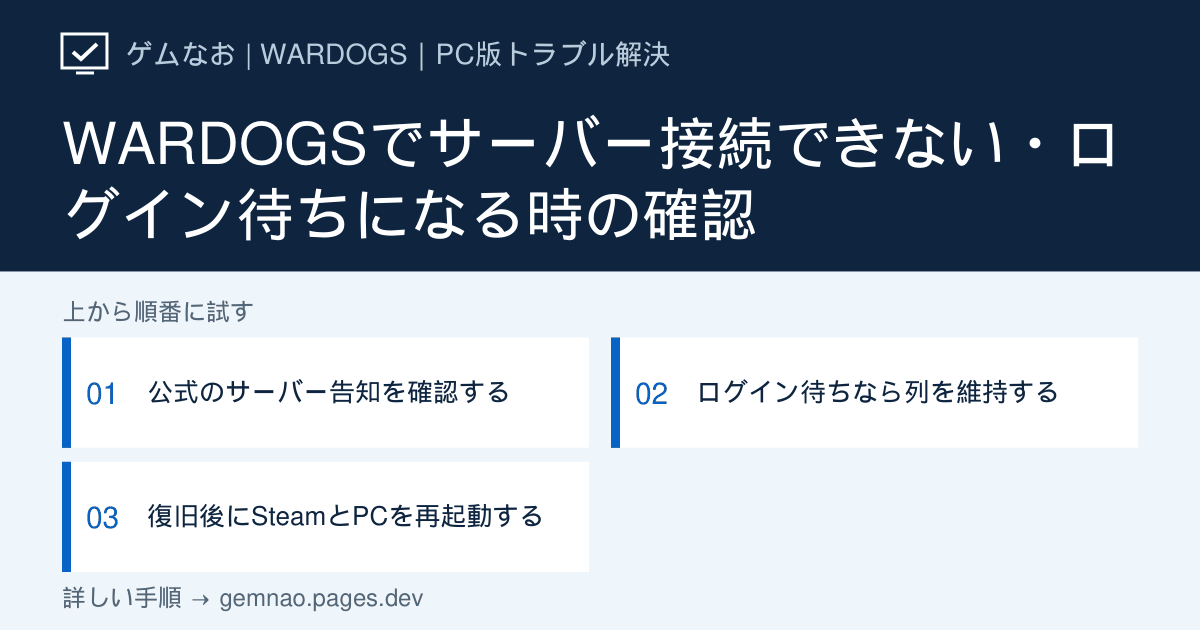
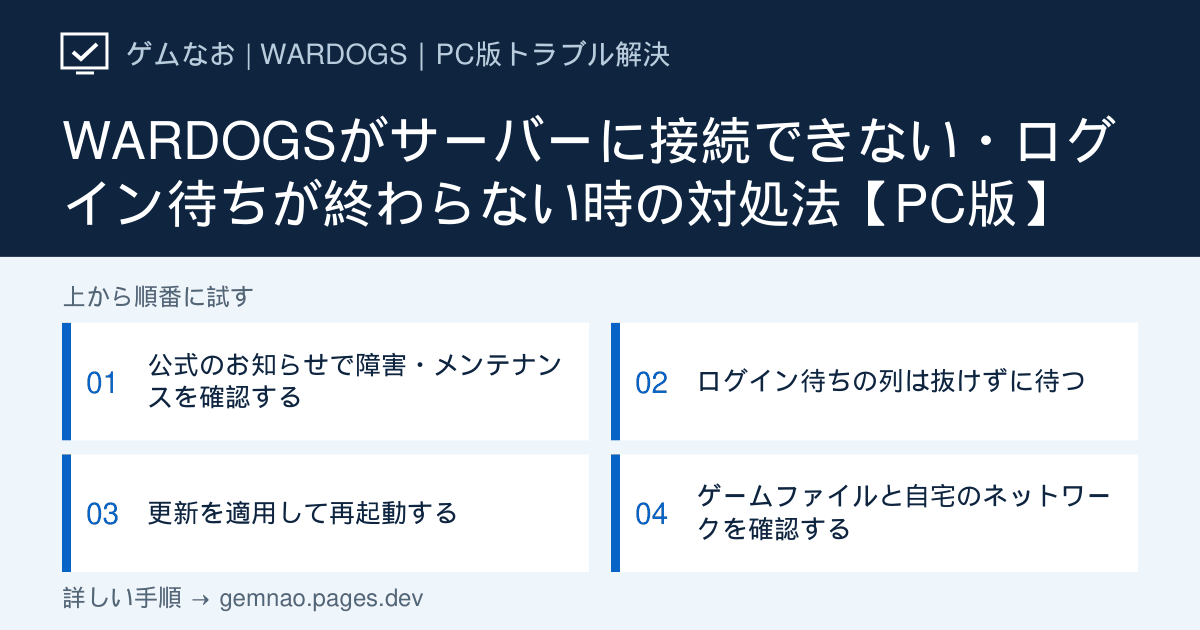
Rewrite the WARDOGS connection article from official announcements
- Rewrite the WARDOGS server-connection article with facts checked on
  2026-09-27 against Bulkhead's Steam announcements (Launch Stability
  Hotfix #1, Patch 0.11), the Steam store, PCGamingWiki and reporting
  from PC Gamer and PCGamesN
- Add the always-online requirement, why to stay in the login queue,
  the forced client update, the split Official/Community server
  browser, and the Steam Family Sharing removal on 2026-09-18
- Keep existing step ids so stored feedback still maps correctly
- Fill the WARDOGS hub data (paths, specs, FPS, ultrawide, HDR,
  language)
- Regenerate the affected OG card

Claude-Session: https://claude.ai/code/session_012qBvfLeXJKFbVbmjsB9psj

diff --git a/lib/new-release-articles.ts b/lib/new-release-articles.ts
@@ -1,103 +1,235 @@
-import type { ArticleCategory, GameArticle } from '@/lib/game-articles';
-import { gameBySlug } from '@/lib/games';
-type Draft = {
-  gameSlug: string;
-  slug: string;
-  category: ArticleCategory;
-  title: string;
-  shortTitle: string;
-  symptom: string;
-  conclusion: string;
-  steps: [string, string, string];
-  sources: { label: string; url: string }[];
-  related: string[];
-  causes: string[];
-  checkedAt?: string;
-  targetVersion?: string;
-  actions: [string[], string[], string[]];
+import type { GameArticle } from '@/lib/game-articles';
+
+// WARDOGS（PC版・Steam早期アクセス）の個別記事。
+// 2026-09-27に開発元Bulkheadの公式告知（Steamニュース）、Steamストア、
+// PCGamingWiki、報道（PC Gamer・PCGamesN）で確認した内容だけを載せています。
+// STEPのidは解決報告（D1）の集計キーなので、既存のidは変更しないでください。
+const sources = {
+  steamNews: {
+    label:
+      'Steamニュース（公式）：Launch Stability Hotfix #1、SCHEDULED MAINTENANCE & PATCH 0.11',
+    url: 'https://store.steampowered.com/news/app/1867240',
+  },
+  steam: {
+    label: 'Steamストア：WARDOGS（動作環境・対応言語）',
+    url: 'https://store.steampowered.com/app/1867240/WARDOGS/',
+  },
+  pcgamer: {
+    label: 'PC Gamer：発売日のサーバー障害と開発元のコメント（英語）',
+    url: 'https://www.pcgamer.com/games/fps/wardogs-servers-go-down-as-over-300-000-people-rush-to-play-on-launch-day/',
+  },
+  familySharing: {
+    label: 'PCGamesN：Steamファミリーシェアリングの無効化（英語）',
+    url: 'https://www.pcgamesn.com/wardogs/steam-family-sharing-disabled',
+  },
+  pcgw: {
+    label: 'PCGamingWiki：WARDOGS（常時オンライン・アンチチート・設定）',
+    url: 'https://www.pcgamingwiki.com/wiki/Wardogs',
+  },
 };
-const targetVersions: Record<string, string> = {
-  wardogs: 'Steam版・2026年9月10日の発売直後情報',
-};
-const make = (d: Draft): GameArticle => ({
-  gameSlug: d.gameSlug,
-  slug: d.slug,
-  category: d.category,
-  title: d.title,
-  shortTitle: d.shortTitle,
-  symptom: d.symptom,
-  conclusion: d.conclusion,
-  // No generic filler: the same sentence on every article is what ad
-  // reviewers flag as low-value, templated content.
-  description: '',
-  checkedAt: d.checkedAt || '2026-09-13',
-  status: 'verified',
-  targetVersion: d.targetVersion || targetVersions[d.gameSlug],
-  causes: d.causes,
-  symptoms: d.steps.map((label, i) => ({ label, target: `step-${i + 1}` })),
-  steps: d.steps.map((title, i) => ({
-    id: `step-${i + 1}`,
-    title,
-    summary: '',
-    actions: d.actions[i],
-  })),
-  cautions: [
-    'セーブ・設定・キャッシュを変更する前にバックアップしてください。',
-    '公式の更新で手順が変わる場合があるため、出典の最新情報も確認してください。',
-  ],
-  faqs: [],
-  sources: d.sources,
-  related: d.related,
-  seoTitle: d.title,
-  metaDescription: d.symptom,
-});
-const wardogs = gameBySlug('wardogs')!;
+
 export const newReleaseArticles: GameArticle[] = [
-  make({
-    gameSlug: wardogs.slug,
+  {
+    gameSlug: 'wardogs',
     slug: 'server-connection',
     category: 'server',
-    title: 'WARDOGSでサーバー接続できない・ログイン待ちになる時の確認',
+    title:
+      'WARDOGSがサーバーに接続できない・ログイン待ちが終わらない時の対処法【PC版】',
     shortTitle: 'サーバー接続・ログイン待ち',
     symptom:
-      '発売直後に確認されたサーバー停止、ログイン待ち、接続エラーを切り分けます。',
+      'ログイン待ち（待機列）が進まない、サーバーに入れない、試合中に切断される、サーバー一覧に目的のサーバーが出ない、家族のアカウントで遊べなくなった場合の確認手順です。',
     conclusion:
-      'まず公式の稼働告知を確認し、障害中は設定を変えず復旧を待ちます。待機列表示中は抜けると順番が戻る可能性があります。',
-    steps: [
-      '公式のサーバー告知を確認する',
-      'ログイン待ちなら列を維持する',
-      '復旧後にSteamとPCを再起動する',
+      'WARDOGSは常時オンライン接続が必要なゲームです。接続できない時は、まず公式のお知らせで障害・メンテナンスを確認します。ログイン待ちの列に並んでいる間は抜けずに待つのが基本です。開発元のCEOも「列を抜けずに待つように」と呼びかけていました。Steamファミリーシェアリングは2026年9月18日から使えなくなっています。',
+    description:
+      '接続の問題は、自分のPCではなく運営側の混雑・障害が原因のことが多くあります。自分の設定をいじる前に、運営側の状況を確認するのが近道です。',
+    checkedAt: '2026-09-27',
+    status: 'verified',
+    targetVersion: 'Steam版（早期アクセス）・2026年9月27日時点',
+    causes: [
+      'アクセス集中によるログイン待ち・サーバー障害（発売日には一時的にサーバーが停止）',
+      'クライアントの更新が適用されていない',
+      'サーバーブラウザの表示条件（公式サーバーとコミュニティサーバーが別のタブに分かれた）',
+      'Steamファミリーシェアリングで遊んでいる（2026年9月18日に無効化）',
     ],
-    checkedAt: '2026-09-23',
-    actions: [
-      [
-        'ゲーム内のエラー全文と発生時刻を控える',
-        'SteamライブラリのWARDOGSのニュースで運営の障害・メンテナンス告知を確認する',
-      ],
-      [
-        '待機列が表示されている場合は連続でキャンセル・再接続せず、そのまま待つ',
-        '障害告知中は再インストールやルーター設定変更を進めない',
-      ],
-      [
-        '運営の復旧案内後も接続できない場合はゲームとSteamを終了する',
-        'Windowsを再起動してSteamから接続する。改善しなければエラー全文と時刻を運営へ伝える',
-      ],
+    quickFacts: [
+      { label: 'インターネット接続', value: '常時必須（PCGamingWiki）' },
+      {
+        label: 'ログイン待ちの時',
+        value: '列を抜けずに待つ（開発元CEOのコメント）',
+      },
+      {
+        label: 'ファミリーシェアリング',
+        value:
+          '2026年9月18日から利用不可（BAN回避への対策）。自分のアカウントでの購入が必要',
+      },
+      {
+        label: '最低動作環境',
+        value:
+          'Windows 10／GTX 1660・RX 590／メモリ16GB（1080p・低・アップスケールで60fps）',
+      },
+      {
+        label: '次の大型更新',
+        value: 'シーズン2：2026年10月15日（公式告知）',
+      },
+    ],
+    diagnosis: [
+      {
+        symptom: 'ログイン待ちの列が進まない',
+        cause: 'アクセスの集中',
+        stepId: 'step-2',
+      },
+      {
+        symptom: 'エラーが出てまったく入れない',
+        cause: 'サーバー障害・メンテナンス',
+        stepId: 'step-1',
+      },
+      {
+        symptom: '更新の案内の後から入れない',
+        cause: 'クライアントの更新が未適用',
+        stepId: 'step-3',
+      },
+      {
+        symptom: 'サーバー一覧に目的のサーバーが出ない',
+        cause: '公式・コミュニティのタブ、表示条件',
+        stepId: 'step-5',
+      },
+      {
+        symptom: '家族のアカウントの購入で遊んでいた',
+        cause: 'ファミリーシェアリングの無効化',
+        stepId: 'step-6',
+      },
+      {
+        symptom: '他のオンラインゲームにもつながらない',
+        cause: '自宅のネットワーク',
+        stepId: 'step-4',
+      },
+    ],
+    symptoms: [
+      { label: '公式のお知らせを確認する', target: 'step-1' },
+      { label: 'ログイン待ちの列を抜けずに待つ', target: 'step-2' },
+      { label: '更新を適用して再起動する', target: 'step-3' },
+      { label: 'ゲームファイルとネットワークを確認する', target: 'step-4' },
+      { label: 'サーバーブラウザの表示を見直す', target: 'step-5' },
+      {
+        label: 'ファミリーシェアリングで遊んでいないか確認する',
+        target: 'step-6',
+      },
+    ],
+    steps: [
+      {
+        id: 'step-1',
+        title: '公式のお知らせで障害・メンテナンスを確認する',
+        summary:
+          '運営側の障害やメンテナンス中は、自分のPCで何をしても接続できません。',
+        time: '約2分',
+        risk: 'low',
+        actions: [
+          'エラーの文章と発生した時刻を控える',
+          'SteamのWARDOGSのページで「ニュース」を開き、障害やメンテナンスのお知らせを確認する',
+          'メンテナンスは各地域の時刻付きで告知される（例：2026年9月14日は日本時間17時から約1時間）',
+        ],
+      },
+      {
+        id: 'step-2',
+        title: 'ログイン待ちの列は抜けずに待つ',
+        summary:
+          '発売日の混雑時、開発元のCEOは「列を抜けず、そのまま待つように」と呼びかけていました。',
+        time: '混雑状況による',
+        risk: 'low',
+        actions: [
+          '待機列が表示されている間は、キャンセルや再接続を繰り返さない',
+          '障害のお知らせが出ている間は、再インストールやルーターの設定変更をしない',
+          '発売日の長い列について、開発元のCEOはValve側の接続数の制限も一因だとの見方を示していた',
+        ],
+      },
+      {
+        id: 'step-3',
+        title: '更新を適用して再起動する',
+        summary:
+          '発売日には安定化のためのクライアント更新が配信され、ログイン中のプレイヤーは一度ゲームを閉じて更新する必要がありました。',
+        time: '約5分',
+        risk: 'low',
+        actions: [
+          'ゲームを終了し、Steamのダウンロード画面で更新を適用する',
+          '更新後にゲームを起動すると、ログイン待ちの列に戻る場合がある（順番に入場させる仕組み）',
+          '復旧後も入れない場合は、SteamとWindowsを再起動してから接続する',
+        ],
+        note: 'この更新は、サーバーに入れない・プレイ中に予期せず切断される・ログイン待ちが長い、という問題への対策として配信されました。',
+      },
+      {
+        id: 'step-4',
+        title: 'ゲームファイルと自宅のネットワークを確認する',
+        summary: '運営側に問題がないのに自分だけ入れない場合に確認します。',
+        time: '約10分',
+        risk: 'low',
+        actions: [
+          'Steamのライブラリでゲームを右クリック→「プロパティ」→「インストール済みファイル」→「ゲームファイルの整合性を確認」',
+          '他のオンラインゲームやWebサイトにつながるか確認する',
+          'つながらない場合はルーターを再起動する。VPNを使っている場合は切って比べる',
+        ],
+      },
+      {
+        id: 'step-5',
+        title: 'サーバーブラウザの表示を見直す',
+        summary:
+          'Patch 0.11で、サーバーブラウザが「公式」と「コミュニティ」に分かれました。',
+        time: '約3分',
+        risk: 'low',
+        actions: [
+          '公式サーバーとコミュニティサーバーのタブを切り替えて探す',
+          '空きのないサーバーや空のサーバーを表示する切り替え（Show Empty/Full）を確認する',
+          'コミュニティサーバーは名前で検索でき、サーバーIDでも参加できる（IDは再起動後も変わらない）',
+        ],
+      },
+      {
+        id: 'step-6',
+        title: 'ファミリーシェアリングで遊んでいないか確認する',
+        summary:
+          '開発元は、BANの回避に悪用されたとして、2026年9月18日にSteamファミリーシェアリングを無効にしました。',
+        time: '約1分',
+        risk: 'low',
+        actions: [
+          '自分のSteamアカウントでWARDOGSを購入しているか、ライブラリで確認する',
+          '家族のアカウントの購入で遊んでいた場合は、自分のアカウントで購入する必要がある',
+        ],
+      },
+    ],
+    avoid: [
+      'ログイン待ちの列を何度も抜けて並び直さない',
+      '障害のお知らせが出ている間に、再インストールやルーターの設定変更をしない',
+      '経験値やお金を稼ぐための「ファーム」サーバーに長く滞在しない（開発元が追跡し、厳しく対処すると表明）',
+    ],
+    cautions: [
+      '早期アクセス中のため、仕様や告知は頻繁に変わります。最新のお知らせも確認してください。',
+    ],
+    faqs: [
+      {
+        question: 'オフラインで遊べますか？',
+        answer:
+          'PCGamingWikiによると、WARDOGSはすべてのモードで常時インターネット接続が必要です。最大100人のオンライン対戦ゲームのため、オフラインでは遊べません。',
+      },
+      {
+        question: 'ファミリーシェアリングはまた使えるようになりますか？',
+        answer:
+          '2026年9月27日時点で、開発元は再開の予定を示していません（PCGamesNの報道）。家族と一緒に遊ぶ場合は、それぞれのアカウントでの購入が必要です。',
+      },
+      {
+        question: '試合中に「キックされた」と表示されました。',
+        answer:
+          'Season 1の変更で、キックされた旨のメッセージは実際にBANされた場合にだけ表示されるようになりました。予期しない切断は、発売日の安定化ホットフィックスでも対策されています。心当たりがない場合は、表示された文章と時刻を控えて運営に問い合わせてください。',
+      },
     ],
     sources: [
-      {
-        label: 'Steamストア',
-        url: 'https://store.steampowered.com/app/1867240/WARDOGS/',
-      },
-      {
-        label: '発売日の障害と運営発言',
-        url: 'https://www.pcgamer.com/games/fps/wardogs-servers-go-down-as-over-300-000-people-rush-to-play-on-launch-day/',
-      },
+      sources.steamNews,
+      sources.pcgamer,
+      sources.familySharing,
+      sources.pcgw,
+      sources.steam,
     ],
     related: [],
-    causes: [
-      '発売直後のアクセス集中によるサーバー停止',
-      'ログインキュー待機中の再接続',
-      '復旧直後にSteam側の接続情報が残っている状態',
-    ],
-  }),
+    seoTitle:
+      'WARDOGSがサーバーに接続できない・ログイン待ちが終わらない時の対処法【PC版】',
+    metaDescription:
+      'WARDOGSでサーバーに接続できない・ログイン待ちが進まない時の対処法。公式のお知らせの確認、列を抜けずに待つ理由、更新の適用、公式・コミュニティに分かれたサーバーブラウザ、9月18日に無効化されたファミリーシェアリングまで解説。',
+  },
 ];

diff --git a/lib/games.ts b/lib/games.ts
@@ -222,26 +222,30 @@ export const games: GameGuide[] = [
     accent: '#526246',
     demand: '2026年9月10日早期アクセス・最大30万人超',
     issueScale: '非常に高い',
-    updated: '2026-09-13',
+    updated: '2026-09-27',
     tags: ['サーバー接続', 'ログイン待ち', '接続できない'],
     focused: true,
-    savePath: 'オンラインゲームのため個別記事で確認済み情報のみ案内',
-    configPath: '個別記事で確認済み情報のみ案内',
-    fps: '',
-    ultrawide: '',
-    hdr: '',
+    savePath: String.raw`%LOCALAPPDATA%\Wardogs\Saved\SaveGames`,
+    configPath: String.raw`%LOCALAPPDATA%\Wardogs\Saved\Config\WindowsClient`,
+    fps: 'フレームレートは上限なし、または最大360fpsまで設定可能。メインメニューは別に設定できます（PCGamingWiki）。',
+    ultrawide: 'ウルトラワイドは横に広がる表示（Hor+）に対応（PCGamingWiki）。',
+    hdr: 'ネイティブのHDR出力には対応していません（PCGamingWiki）。',
     controller: '',
     launchFixes: [
-      '公式サーバー告知を確認',
-      '待機列を抜けずに待つ',
-      'SteamとPCを再起動',
+      'Steamのニュースで障害・メンテナンスを確認',
+      'ログイン待ちの列は抜けずに待つ',
+      '更新を適用してSteamとPCを再起動',
+      'ファミリーシェアリングではなく自分のアカウントで購入（9月18日に無効化）',
     ],
     mod: '',
-    japanese: '',
+    japanese:
+      '日本語のインターフェース・字幕に対応（音声は非対応。Steamストアの表記）。',
     specs: {
-      minimum: 'Steamストア参照',
-      recommended: 'Steamストア参照',
-      storage: 'Steamストア参照',
+      minimum:
+        'Windows 10／GTX 1660・RX 590／メモリ16GB（1080p・低・アップスケールで60fps）',
+      recommended:
+        'Windows 11／RTX 3070・RX 6700 XT／メモリ16GB（1440p・中で70fps以上）',
+      storage: '50GB',
     },
     sources: [
       { label: 'Steamストア', url: steam('1867240') },
@@ -249,6 +253,7 @@ export const games: GameGuide[] = [
         label: '発売日のサーバー障害報道',
         url: 'https://www.pcgamer.com/games/fps/wardogs-servers-go-down-as-over-300-000-people-rush-to-play-on-launch-day/',
       },
+      { label: 'PCGamingWiki', url: pcgw('Wardogs') },
     ],
   },
   {

diff --git a/lib/og-image-manifest.ts b/lib/og-image-manifest.ts
@@ -82,7 +82,7 @@ export const ogImageManifest: Record<string, string> = {
   "/games/the-blood-of-dawnwalker/shader-compilation-crash": "0686acbf",
   "/games/the-blood-of-dawnwalker/stutter-windowed": "d63c65d6",
   "/games/wardogs": "b4e73c57",
-  "/games/wardogs/server-connection": "1594de9f",
+  "/games/wardogs/server-connection": "281cf030",
   "/guide/black-screen": "e12f00e5",
   "/guide/controller-double-input": "0d9e44f1",
   "/guide/directx-error": "a1e2835c",
